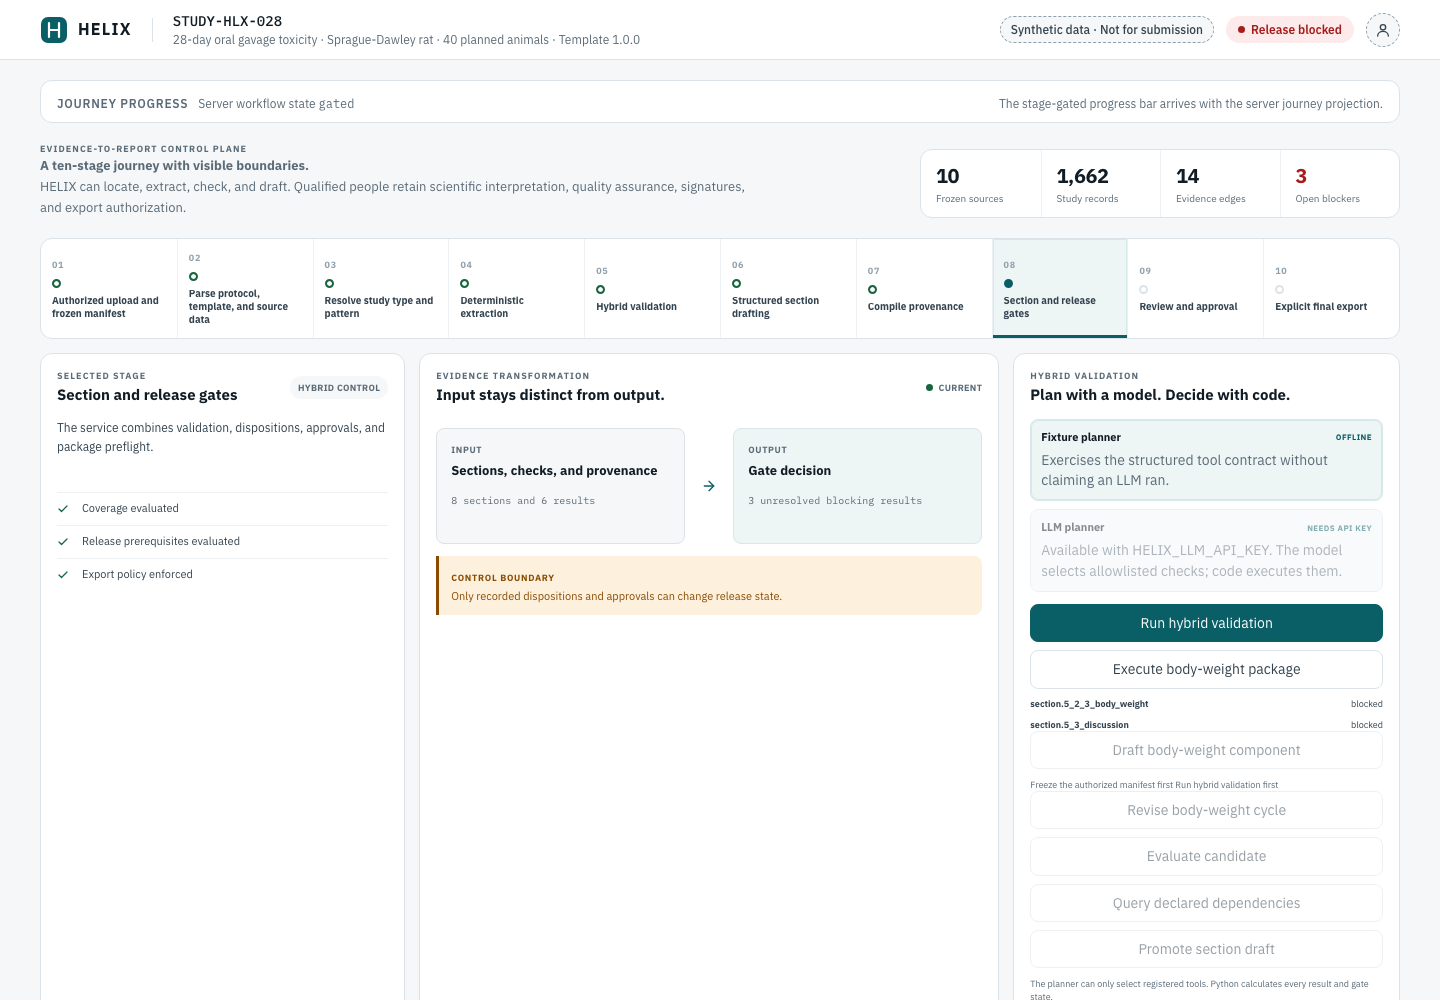
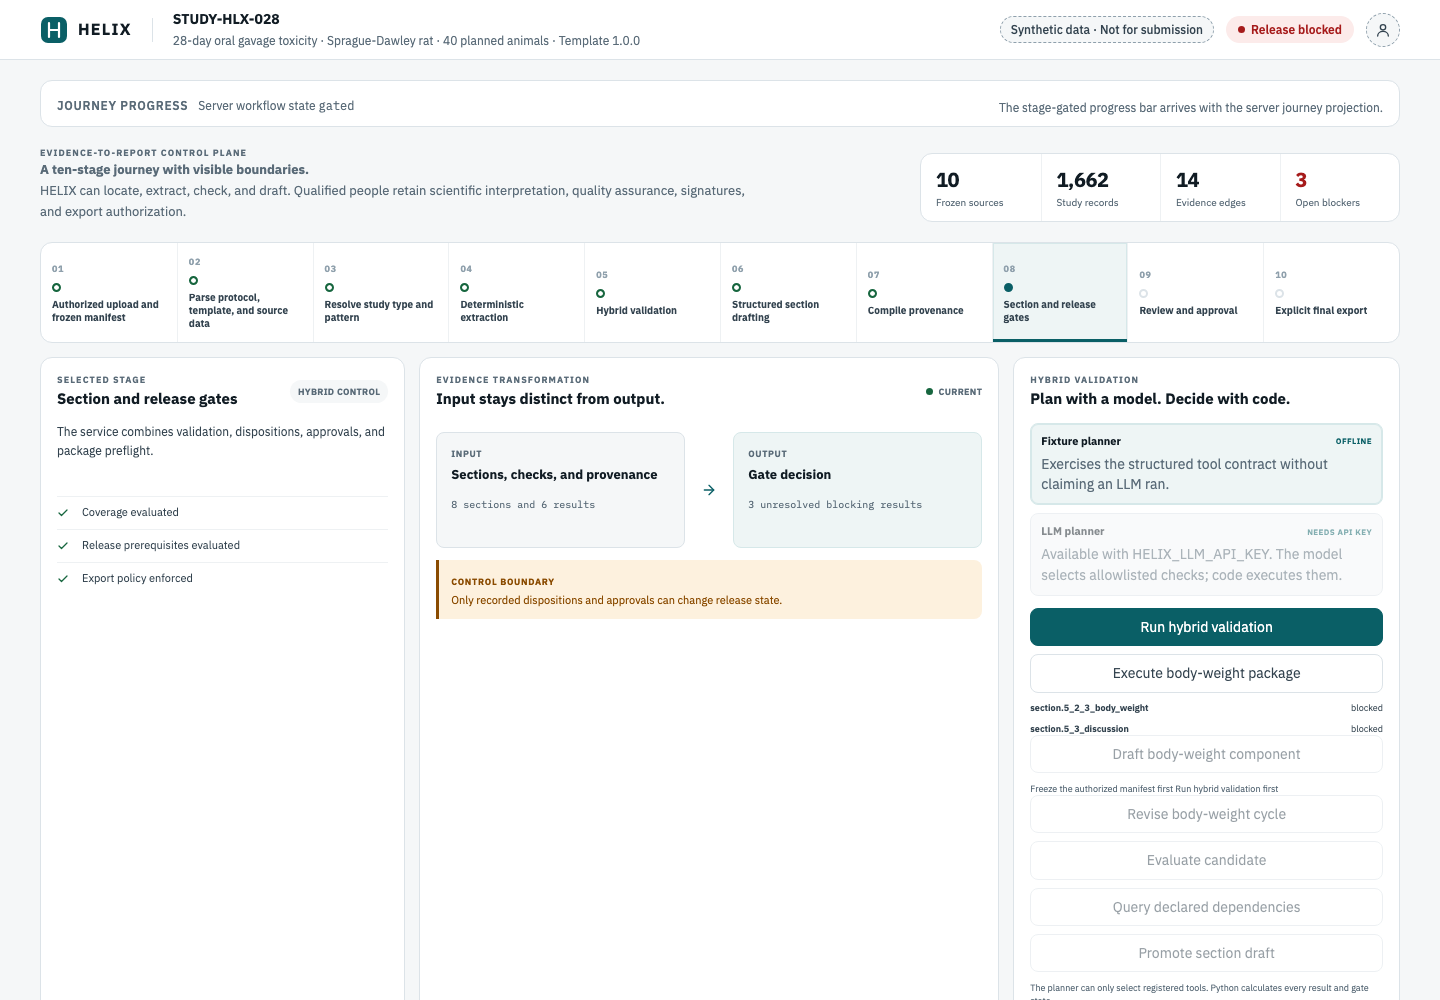
docs(ui): step 0 evidence, ownership map on base e56bf7fd

diff --git a/steven/helix-prototypes/evidence/ui-step0-visual-parity-kit.md b/steven/helix-prototypes/evidence/ui-step0-visual-parity-kit.md
@@ -1,0 +1,140 @@
+# UI step 0: visual parity kit — verification evidence
+
+- Branch: `cursor/ui-step0-visual-parity-kit` on `Perk4/Helix`
+- Base: `feat/steven-workspace` @ `e56bf7fd` (the merge of the ADO sync: Alembic migrations, `intake_jobs.py`, intake-job routes). The branch was first built on `f5776828` and was rebased locally onto `e56bf7fd` before its first push. All results below were re-run on the new base.
+- Tip: the PR head commit, which adds this file. Its SHA is in the PR description.
+- Date: 2026-09-24 (America/Chicago). Local macOS run, Node 22.23.2, Playwright 1.63 Chromium.
+- Ports: parity 8020/3020, verify-live 8120/3120, base verify-live 8121/3121. The concurrent ADO-sync worker's 8010/3010 were not touched. No other Playwright process was running (`pgrep -fl playwright` was empty before each run).
+- Sources:
+  - `research/helix-e2e-workbench-v1.html`, the reference build. It wins on conflict.
+  - `research/HANDOFF.md` section 6 (tokens).
+  - `docs/specifications/helix-v1-ui-redesign.md`.
+  - ADR 0022.
+  - UI SLICE 0 (`evidence/ui-slice-0-v1-shell.md`) and the #25 journey contract (`evidence/ui-slice-7-journey-run-events.md`).
+  - Issues Steven-Espaillat/Helix #19 to #23 and #26.
+
+## What changed
+
+**(a) One shared stylesheet and one shared component set**
+- `frontend/src/styles/helix-v1.css` is the single shared stylesheet.
+  - It holds the reference tokens: `light-dark()` colors; a type scale of 22/18/16/15/14/13/12/11 with weights and tracking; spacing steps plus gutter, gap, card padding, header height, and control heights; radii of 12/10/8/6/999; and halos and rings as "shadows" (the reference uses no drop shadows).
+  - It also holds the CSS for the shell and every shared component: tones, card, kicker, chip, pill, button, list row, spinner, stage rail, gate and run banners, data table, and layout grids.
+  - UI SLICE 0's token block and shell CSS **moved** here from `globals.css` rather than being duplicated. `globals.css` now keeps only the legacy pre-v1 panel CSS and its alias variables.
+- `frontend/src/components/ui/` is the shared component set:
+  - `Card`, `Kicker`, `Button`, `Chip`, `Pill`, `Spinner`, `StatusDot`, `ListRow`
+  - `Banner`/`GateBanner`
+  - `StageRail`: the presentational Progress Bar. Lane A maps `workspace.journey` onto it.
+  - `DataTable`/`FileCell`
+  - `cx`/`toneClass`/`toneColor`
+- New icons: `ChevronIcon`, `FileIcon`, `UploadIcon`.
+- The shell uses the set:
+  - `components/shell/ShellHeader.tsx`, extracted from `HelixWorkbench`.
+  - `ReleasePill` now renders `Pill`.
+  - The boundary states use `Card`, `Kicker`, `Button`, and `Spinner`, and the notices use `Button`.
+- The lane view stylesheets are seeded from the reference and already imported by `layout.tsx`, so lanes never edit the layout: `src/styles/views/{upload,agent,traceability,review}.css`.
+- The shell is now closer to the reference. The parity kit found each of these:
+  - The header study ID renders in Plex Sans 700, as in the reference. UI SLICE 0 used Plex Mono 500. The HTML wins over HANDOFF, and `shell.spec.ts` was updated to match.
+  - The study descriptor is an inline span under a block `<strong>`, as in the reference. The old block span moved the header text by about 2 px.
+  - `-webkit-font-smoothing: antialiased` was removed from `body`. The reference does not set it, and it changed text rasterization.
+  - The logo stroke and the solid-fill foregrounds use the new `--hx-on-solid` token, which is white in both themes as in the reference. Before, the dark-theme logo stroke was dark, and `t-block-solid` text used `--hx-surface`.
+- **Study-selection seam** (added by the scope update):
+  - `components/shell/StudyContext.tsx` provides `StudyProvider` and `useStudySelection()`. `studyId.ts` provides `DEFAULT_STUDY_ID` and `normalizeStudyId()`.
+  - `SelectedStudyWorkbench.tsx` renders the workbench for the selected study.
+  - `app/page.tsx` reads `?study=`. The shell no longer hard-wires `STUDY-HLX-028`; that ID is only the default.
+  - Lane A (#26) calls `selectStudy(id)` after an intake job completes.
+
+**(b) The parity kit** is `frontend/tests/parity/`, run by `scripts/verify-parity.sh` or `npm run test:parity`. How to use it and the threshold rationale are in `frontend/tests/parity/README.md`.
+- Settings: 1440x900 at scale factor 1; pixelmatch threshold 0.1 with anti-aliased pixels excluded; the run **fails above 1.0 %** of compared pixels.
+- Per-screen `maxDiffRatio`, `pixelThreshold`, masks, and `replaceText` are supported.
+- Our base URL comes from `HELIX_PARITY_BASE_URL`. Self-started servers use `HELIX_PARITY_API_PORT`/`HELIX_PARITY_WEB_PORT`.
+- Pending lane screens are skipped until a lane turns them on, or are captured report-only with `HELIX_PARITY_INCLUDE_PENDING=1`.
+- The reference's Google Fonts request is answered with the app's own `@fontsource` files, so both sides use identical fonts and the run works offline.
+- The component fixtures are at `/parity?fixture=upload&stage=N` and return 404 unless `HELIX_PARITY_FIXTURES=1`.
+- `playwright.config.ts` ignores `parity/**`, so `verify-live.sh` does not run the kit.
+- `scripts/verify-live.sh` gained optional `HELIX_LIVE_API_PORT`/`HELIX_LIVE_WEB_PORT`/`HELIX_LIVE_DIST_DIR`. The defaults are unchanged (8010/3010/.next-e2e).
+
+**(c) Ownership map:** `docs/ui-lanes-ownership.md`. It includes the scope update: Lane A = #19, #20, #26; Lane D = #23 plus the demo-unqualified flag at both the freeze/run and export gates. It also covers the new base: `backend/migrations/**` and `alembic.ini` are SHARED, and `intake_jobs.py` belongs to Lane A.
+
+No backend file changed: `git diff e56bf7fd -- backend` is empty.
+
+## Results: base `e56bf7fd` vs branch
+
+| Check | Command | Base `e56bf7fd` | Branch | Delta |
+|---|---|---|---|---|
+| Ruff | `cd backend && uv run ruff check app tests scripts` | 5 errors (`intake.py` B905, `main.py` I001 + 2x B008, `tests/test_intake.py` F401) | the same 5 (the backend is byte-identical to the base) | 0 |
+| Typecheck | `cd frontend && npm run typecheck` | pass | pass | none |
+| Build | `cd frontend && npm run build` | pass | pass; `/` is now dynamic (`ƒ`) because it reads `?study=`, and `/parity` is dynamic and gated | see the risks |
+| Live e2e | `HELIX_LIVE_API_PORT=812x HELIX_LIVE_WEB_PORT=312x ./scripts/verify-live.sh` | **16 passed / 2 failed / 1 skipped** | **16 passed / 2 failed / 1 skipped** | same failing set |
+| Parity | `./scripts/verify-parity.sh` | n/a | **9/9 enforced screens pass at 0.000 %**; 1 report-only; 6 pending skipped | new |
+
+The two verify-live failures are the same on the base and the branch:
+- `workbench.spec.ts › runs the synthetic study from validation through explicit export`
+- `workbench.spec.ts › renders predecessor run identity and carry-forward counts from the workspace`
+
+Both come from the known section-package qualification 422 (`POST /validation-runs` returns 422, and the UI shows "The HELIX API returned an unexpected error."). The Codex live spec is skipped without `HELIX_CODEX_LIVE=1`. All 4 `shell.spec.ts` tests pass on the branch, including the light and dark header tests with the updated Plex Sans study-ID and journey-only navigation assertions. The first branch run, before the fix, failed only `plexMonoLoaded`, because nothing rendered Plex Mono 500 any more. The assertion now checks that the server workflow-state identifier computes to Plex Mono 400.
+
+`make test` is not a useful gate here. It stops at ruff because of the 5 upstream errors, the same as in the UI SLICE 0 and UI SLICE 7 evidence. The steps above were run on their own.
+
+## Parity results (1440x900 @1x, max 1.00 %, pixelmatch 0.1)
+
+| Screen | Status | Diff ratio | Result |
+|---|---|---|---|
+| shell-header-light | enforced | 0.000 % | PASS |
+| shell-header-dark | enforced | 0.000 % | PASS |
+| component-stage-rail-s0-light | enforced | 0.000 % | PASS |
+| component-stage-rail-s7-light | enforced | 0.000 % | PASS |
+| component-stage-rail-s0-dark | enforced | 0.000 % | PASS |
+| component-gate-banner-light | enforced | 0.000 % | PASS |
+| component-file-table-light | enforced | 0.000 % | PASS |
+| component-auth-card-light | enforced | 0.000 % | PASS |
+| component-upload-composition-light | enforced | 0.000 % | PASS |
+| shell-viewport-light | report-only | 6.182 % | reported |
+| journey-progress-light (A #19), upload-gate-light (A #20), agent-step-light (B #21), traceability-gate-light (C #22), review-export-light/-dark (D #23) | pending | — | skipped |
+
+What "0.000 %" covers:
+- **Shell header:** the real `/` shell against a fresh synthetic seed, compared with the reference `.hx-top`. Two regions are masked on both sides. (1) The study descriptor, because it is server data and the reference copy is static. (2) The avatar, the documented #27 deviation: a synthetic identity icon instead of initials.
+- **Component screens:** the shared components render the reference copy in the `/parity` fixture, composed as the reference `?stage=N` page, so every element sits at the same sub-pixel offset.
+
+**Why the whole viewport is only report-only:** below the header, the shell still renders the pre-v1 panels (study journey, evidence chain, report assembly). The lanes replace them, so 6.18 % is today's honest distance. The measurement is kept in the report and not enforced.
+
+**Negative control** (not committed): `--hx-radius` was changed from 12 to 8 px and `--hx-fs-step` from 11 to 12 px, then the kit was run again. 7 of 9 enforced screens **FAILED**, at 1.55 % to 4.55 %. The rail and table screens also reported size mismatches of +1 to +2 px. The two header screens do not use those tokens and stayed at 0 %. The CSS was then restored.
+
+**Pending lane screens today** (report-only run with `HELIX_PARITY_INCLUDE_PENDING=1`, not committed). These show where each lane starts:
+
+| Screen | Diff ratio | Sizes |
+|---|---|---|
+| journey-progress | 66.5 % | ours 1360x48 vs reference 1360x144 |
+| upload-gate | 81.7 % | |
+| agent-step | 88.7 % | |
+| traceability | 84.1 % | |
+| review-export light / dark | 86.8 % / 89.3 % | |
+
+For the last four, ours is the 4,265 px legacy stage view.
+
+**Threshold history (the kit found real bugs before the fixes above):**
+
+| Stage | Screen | Diff |
+|---|---|---|
+| Header, first run | light / dark | 0.515 % / 1.079 % (dark FAILED) |
+| After the inline descriptor fix | dark | 0.69 % |
+| After removing font smoothing | both | 0 % |
+| Before the fix: fixtures captured in isolation (a different fractional y offset than the reference) | gate banner / auth card / table | 4.5 % / 2.8 % / 2.1 % |
+
+The composed fixture removed the fractional-offset diffs. The threshold was never raised.
+
+### Side by side (ours / reference / diff, top to bottom)
+
+![shell header light](parity/shell-header-light/side-by-side.png)
+![shell header dark](parity/shell-header-dark/side-by-side.png)
+![stage rail stage 7](parity/component-stage-rail-s7-light/side-by-side.png)
+![upload composition](parity/component-upload-composition-light/side-by-side.png)
+![whole viewport (report-only)](parity/shell-viewport-light/side-by-side.png)
+
+Every screen's `side-by-side.png` and `result.json`, plus `summary.md` and `summary.json`, are committed under `evidence/parity/`. The files `ours.png`, `reference.png`, and `diff.png` are generated locally and gitignored, because the side-by-side already contains all three. `evidence/helix-v1-shell-{light,dark}.png` were regenerated by `shell.spec.ts` and show the updated header.
+
+## Deviations and decisions
+
+- **Study ID font:** Plex Sans, as the reference renders it. HANDOFF says "Mono for IDs", but the HTML wins. Mono stays for other identifiers such as the workflow state.
+- **Masked, documented deviations:** the header avatar (#27) and the server-driven study descriptor.
+- **The StageRail is not wired into the shell.** #19 (Lane A) owns mapping `workspace.journey` onto it, and it must not use a merge table. The shell keeps the reserved `progress-region`.
+- **Legacy panel CSS is still in `globals.css`.** Lanes delete their panels' rules when they replace them (a deletion-only exception in the ownership map).

diff --git a/steven/helix-prototypes/docs/ui-lanes-ownership.md b/steven/helix-prototypes/docs/ui-lanes-ownership.md
@@ -1,6 +1,6 @@
 # UI lanes: file ownership, ports, and databases
 
-**Status:** in force from UI step 0 (the visual parity kit) until lanes A to D merge.
+**Status:** in force from UI step 0 (the visual parity kit) until lanes A to D merge. Written against base `feat/steven-workspace` @ `e56bf7fd`, which includes the ADO sync: Alembic migrations, `intake_jobs.py`, and the intake-job routes.
 **Scope:** `steven/helix-prototypes` on the fork `Perk4/Helix`. PRs target `feat/steven-workspace`. Issues live on `Steven-Espaillat/Helix`.
 **Why:** four lanes build the v1 stage-gated workspace in parallel. Each path below has **one** owner, so lanes do not collide on rebase.
 
@@ -64,7 +64,7 @@ Backend (`backend/`) and repo:
 
 | Path | What |
 |---|---|
-| `app/models.py`, `migrations/**`, and `alembic.ini` (arriving with the ADO sync) | Database schema. **Any new table or column means escalating.** See section 5.3. |
+| `backend/migrations/**`, `backend/alembic.ini`, `app/models.py` | Database schema and Alembic history (landed with the ADO sync in base `e56bf7fd`). **Any new table, column, or revision means escalating.** See section 5.3. |
 | `app/schemas.py` | `WorkspaceResponse` and every existing model. New lane-only request and response models go in lane modules (section 3.2). |
 | `app/main.py` | App factory and route registration. Section 7 proposes routers; until they exist, route edits escalate. |
 | `app/database.py`, `app/config.py`, `app/repository.py`, `app/seed.py`, `app/journey.py`, `app/run_events.py` | Cross-cutting persistence, config, and the #25 journey projection and event store. |
@@ -86,7 +86,7 @@ Paths marked *(new)* do not exist yet. The owning lane creates them at exactly t
 | Gate 1 (#20) | `src/components/upload/UploadGate.tsx`, `PinnedRunDetail.tsx` *(new)*. `src/lib/api/intake.ts` *(new)*: `freezePinnedRun`. `src/styles/views/upload.css`, already seeded from the reference. `tests/upload-gate.spec.ts` *(new)*. |
 | Upload and run controls (#26) | `src/components/upload/IntakeUploadForm.tsx`, `IntakeJobProgress.tsx`, `StudyPicker.tsx` *(new)*. Intake-job wrappers (`POST /studies/jobs` and job polling) and pause/resume wrappers go in `src/lib/api/intake.ts` and `src/lib/api/runControls.ts` *(new)*. `tests/intake-upload.spec.ts` *(new)*. |
 | Study selection | Lane A **uses** the step-0 seam. It calls `useStudySelection().selectStudy(id)` after an intake job completes, or from `StudyPicker`. It does not edit `StudyContext.tsx`. If the seam is not enough (for example, a server-side list of recent studies), escalate. |
-| Backend | `app/intake.py`, `app/intake_jobs.py` (arriving with the ADO sync), `tests/test_intake.py`, `tests/test_intake_jobs.py`. Proposed *(new)*, see section 7: `app/manifest_authorization.py` (the audited human freeze of an uploaded file list, and the `_validate_manifest` rules); `app/run_controls.py` (pause/resume commands that append `run_paused`/`run_resumed` through the shared event store API); `app/routers/intake.py`; `tests/test_manifest_authorization.py`; `tests/test_run_controls.py`. Function-level: `service.freeze_run`, and `run_plans.PinnedRunService._validate_manifest` until it is extracted. |
+| Backend | `app/intake.py`, `app/intake_jobs.py` (the upload job runner and its stage progress, used by #26), `tests/test_intake.py`, `tests/test_intake_jobs.py`. The intake-job routes that are in `main.py` today stay SHARED until the `routers/intake.py` extraction in section 7. Until then, a change to them means escalating. Proposed *(new)*, see section 7: `app/manifest_authorization.py` (the audited human freeze of an uploaded file list, and the `_validate_manifest` rules); `app/run_controls.py` (pause/resume commands that append `run_paused`/`run_resumed` through the shared event store API); `app/routers/intake.py`; `tests/test_manifest_authorization.py`; `tests/test_run_controls.py`. Function-level: `service.freeze_run`, and `run_plans.PinnedRunService._validate_manifest` until it is extracted. |
 | Parity | `tests/parity/screens/lane-a.ts` |
 
 **Lane B: #21**
